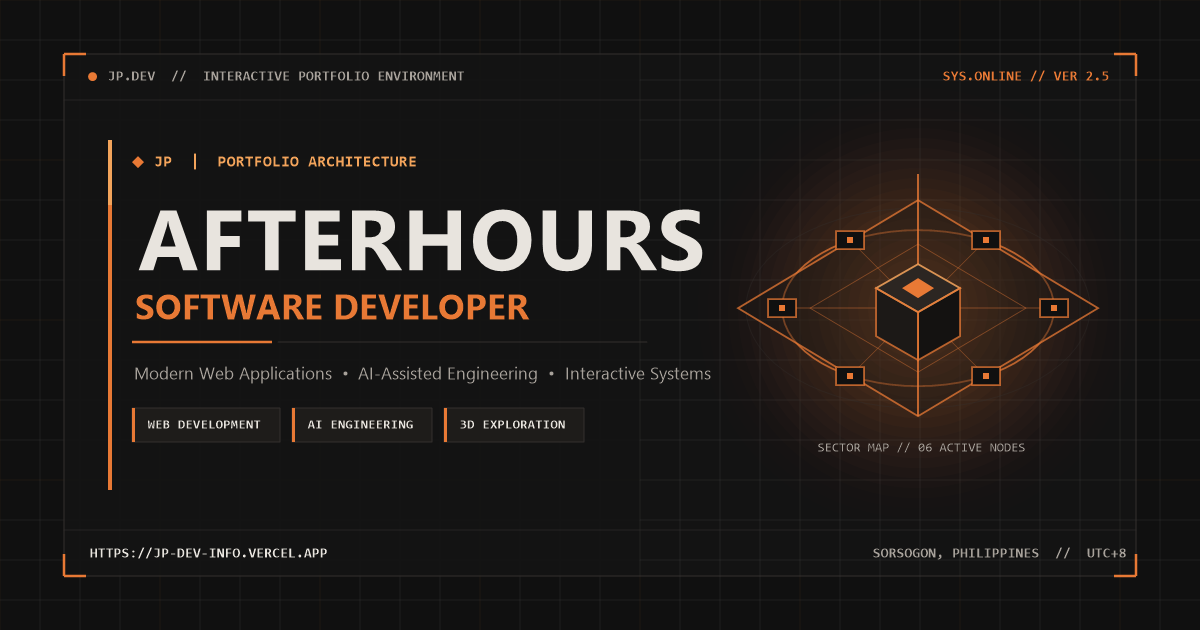
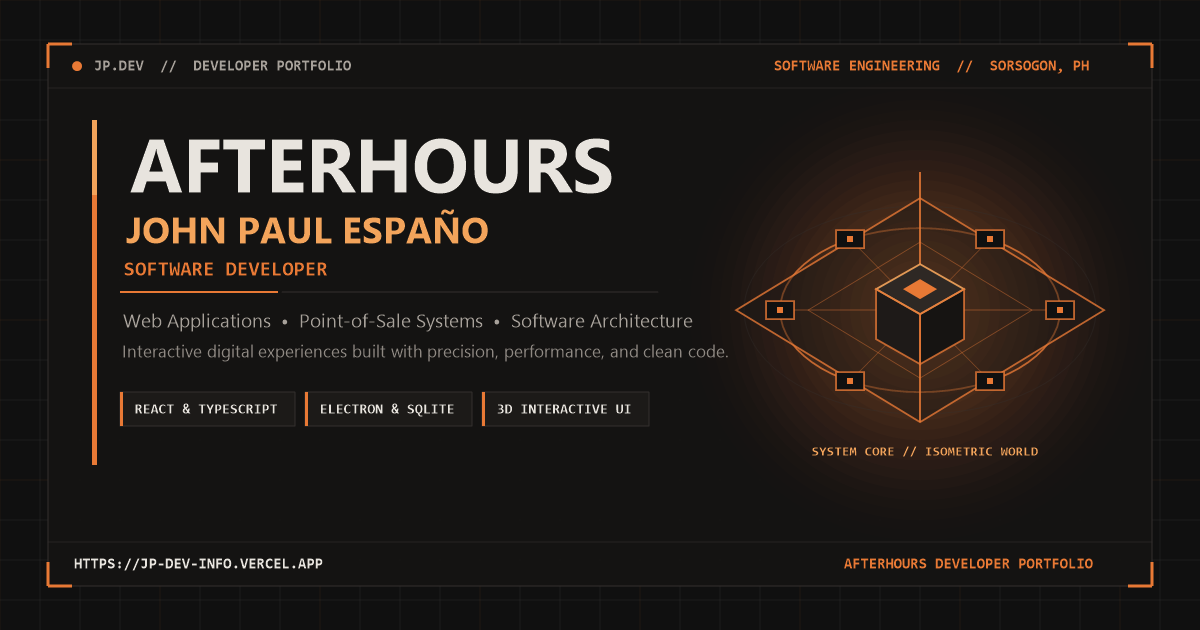
feat: update portfolio metadata and add Open Graph preview images

diff --git a/index.html b/index.html
@@ -5,51 +5,55 @@
     <meta name="viewport" content="width=device-width, initial-scale=1.0" />
 
     <!-- Primary Document Metadata -->
-    <title>AFTERHOURS — Developer Portfolio</title>
+    <title>AFTERHOURS — John Paul Españo | Software Developer</title>
     <meta
       name="description"
-      content="Software Developer specializing in modern web development, AI-assisted software engineering, and interactive digital experiences."
+      content="Software Developer portfolio of John Paul Españo. Explore modern web applications, desktop point-of-sale systems, interactive tools, and software architecture."
     />
     <meta name="theme-color" content="#101010" />
     <link rel="canonical" href="https://jp-dev-info.vercel.app/" />
     <link rel="icon" type="image/svg+xml" href="/favicon.svg" />
 
-    <!-- Open Graph / Social Sharing Metadata -->
+    <!-- Open Graph / Social Sharing & WhatsApp Metadata -->
     <meta property="og:type" content="website" />
     <meta property="og:url" content="https://jp-dev-info.vercel.app/" />
-    <meta property="og:title" content="AFTERHOURS — Developer Portfolio" />
+    <meta property="og:title" content="AFTERHOURS — John Paul Españo | Software Developer" />
     <meta
       property="og:description"
-      content="Software Developer specializing in modern web development, AI-assisted software engineering, and interactive digital experiences."
+      content="Software Developer portfolio of John Paul Españo. Explore modern web applications, desktop point-of-sale systems, interactive tools, and software architecture."
     />
     <meta
       property="og:image"
-      content="https://jp-dev-info.vercel.app/og-image.png"
+      content="https://jp-dev-info.vercel.app/images/og-preview.png"
+    />
+    <meta
+      property="og:image:secure_url"
+      content="https://jp-dev-info.vercel.app/images/og-preview.png"
     />
     <meta property="og:image:type" content="image/png" />
     <meta property="og:image:width" content="1200" />
     <meta property="og:image:height" content="630" />
     <meta
       property="og:image:alt"
-      content="AFTERHOURS — Software Developer Portfolio"
+      content="AFTERHOURS developer portfolio preview"
     />
     <meta property="og:site_name" content="AFTERHOURS" />
 
     <!-- Twitter / X Card Metadata -->
     <meta name="twitter:card" content="summary_large_image" />
     <meta name="twitter:url" content="https://jp-dev-info.vercel.app/" />
-    <meta name="twitter:title" content="AFTERHOURS — Developer Portfolio" />
+    <meta name="twitter:title" content="AFTERHOURS — John Paul Españo | Software Developer" />
     <meta
       name="twitter:description"
-      content="Software Developer specializing in modern web development, AI-assisted software engineering, and interactive digital experiences."
+      content="Software Developer portfolio of John Paul Españo. Explore modern web applications, desktop point-of-sale systems, interactive tools, and software architecture."
     />
     <meta
       name="twitter:image"
-      content="https://jp-dev-info.vercel.app/og-image.png"
+      content="https://jp-dev-info.vercel.app/images/og-preview.png"
     />
     <meta
       name="twitter:image:alt"
-      content="AFTERHOURS — Software Developer Portfolio"
+      content="AFTERHOURS developer portfolio preview"
     />
 
     <!-- Synchronous Theme Restore (Prevents Flash of Incorrect Theme on Load) -->
